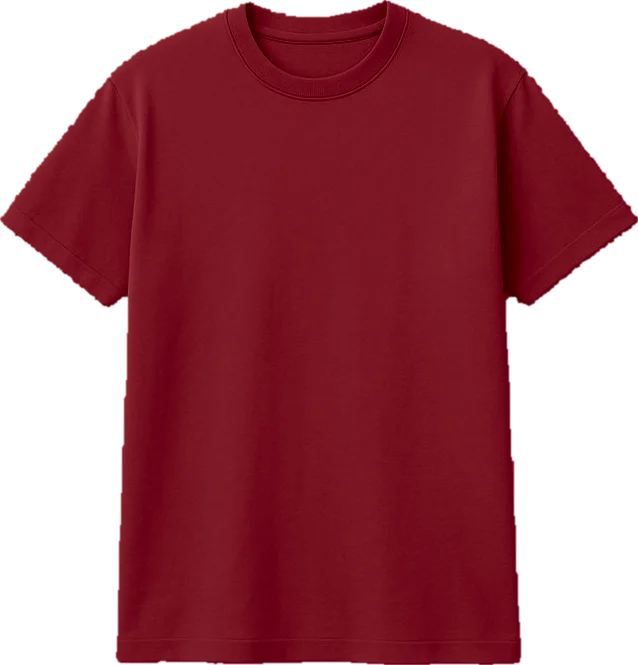
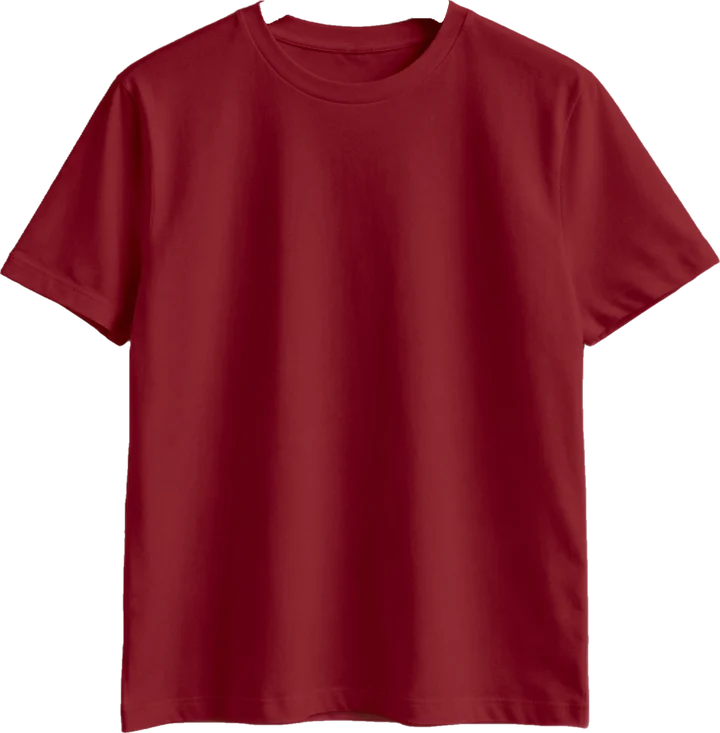
Percha de madera, remeras de costado que giran al frente, nueva foto de básica y WhatsApp
Claude-Session: https://claude.ai/code/session_01TQcB1Do2ys7hxToweFXVKh

diff --git a/app.js b/app.js
@@ -4,9 +4,9 @@
 (() => {
   const $ = (s) => document.querySelector(s);
   const reduce = matchMedia('(prefers-reduced-motion: reduce)').matches;
-  const ASPECTO = { oversize: 1050 / 1064, basica: 665 / 638 };
+  const ASPECTO = { oversize: 1050 / 1064, basica: 733 / 720 };
   const ESCALA_CORTE = { oversize: 1, basica: 0.84 }; // la básica se ve más angosta, como en la realidad
-  const SOMBRA_PAD = { oversize: 60 / 720, basica: 60 / 638 };
+  const SOMBRA_PAD = { oversize: 60 / 720, basica: 60 / 720 };
 
   let CFG, DIS = [], lista = [], filtro = 'todo';
 
@@ -46,38 +46,48 @@
     if (est) { c.globalAlpha = 0.97; c.drawImage(est, 0, 0); c.globalAlpha = 1; }
   }
 
-  /* ---------- percha (gancho) ---------- */
+  /* ---------- percha de madera + gancho ---------- */
+  // Medidas de la percha tomadas de la foto de la remera básica (relativas al ancho de la básica).
+  const PERCHA = { ancho: 0.2598, izq: -0.1371, arriba: -0.096, prop: 186 / 379 };
   function gancho(h) {
     const ns = 'http://www.w3.org/2000/svg';
     const s = document.createElementNS(ns, 'svg');
     s.setAttribute('viewBox', '0 0 40 60'); s.setAttribute('class', 'hook');
     s.style.height = h + 'px'; s.style.width = (h * 40 / 60) + 'px';
-    s.innerHTML = `<defs><linearGradient id="gm" x1="0" x2="1"><stop offset="0" stop-color="#5E5C59"/><stop offset=".45" stop-color="#E9E8E5"/><stop offset="1" stop-color="#8F8D89"/></linearGradient></defs>
-      <path d="M20 60 V40 C20 33 27.5 31 27.5 20 C27.5 10 20.5 4.6 15.5 6.6 C12 8 11.6 12.6 13.8 14.6" fill="none" stroke="url(#gm)" stroke-width="3.2" stroke-linecap="round"/>
-      <rect x="13" y="52" width="14" height="8" rx="2" fill="#2A2724"/>`;
+    s.innerHTML = `<defs><linearGradient id="gm" x1="0" x2="1"><stop offset="0" stop-color="#4E4C49"/><stop offset=".45" stop-color="#D9D8D4"/><stop offset="1" stop-color="#7C7A76"/></linearGradient></defs>
+      <path d="M20 61 V42 C20 35 27.5 32 27.5 20 C27.5 10 20.5 4.6 15.5 6.6 C12 8 11.6 12.6 13.8 14.6" fill="none" stroke="url(#gm)" stroke-width="2.6" stroke-linecap="round"/>`;
     return s;
+  }
+  function geometria(w, corte) {
+    const swB = w * ESCALA_CORTE.basica;
+    const hookH = w * 0.17;
+    const sw = w * ESCALA_CORTE[corte];
+    const sh = sw * ASPECTO[corte];
+    const shirtTop = hookH - PERCHA.arriba * swB;
+    return { swB, hookH, sw, sh, shirtTop, alto: shirtTop + sh };
   }
   // Arma la percha + remera. Devuelve el nodo .swing y el canvas.
   function prenda(w, corte) {
-    const hookH = w * 0.2;
-    const sw = w * ESCALA_CORTE[corte];
-    const sh = sw * ASPECTO[corte];
+    const g = geometria(w, corte);
     const swing = document.createElement('div'); swing.className = 'swing';
-    swing.style.width = w + 'px'; swing.style.height = (hookH + sh) + 'px';
-    swing.style.setProperty('--pivot', (hookH * 0.12) + 'px');
-    swing.appendChild(gancho(hookH));
+    swing.style.width = w + 'px'; swing.style.height = g.alto + 'px';
+    swing.style.setProperty('--pivot', (g.hookH * 0.12) + 'px');
+    swing.appendChild(gancho(g.hookH + 2));
+    const madera = new Image(); madera.className = 'madera'; madera.alt = ''; madera.src = 'img/percha.webp';
+    const mw = PERCHA.ancho * g.swB;
+    madera.style.width = mw + 'px'; madera.style.left = (w / 2 + PERCHA.izq * g.swB) + 'px'; madera.style.top = g.hookH + 'px';
+    swing.appendChild(madera);
     const shirt = document.createElement('div'); shirt.className = 'shirt';
-    shirt.style.width = sw + 'px'; shirt.style.top = (hookH * 0.9) + 'px';
+    shirt.style.width = g.sw + 'px'; shirt.style.top = g.shirtTop + 'px';
     const pad = SOMBRA_PAD[corte];
     const sombra = new Image(); sombra.className = 'sombra'; sombra.alt = ''; sombra.src = `img/${corte}/sombra.webp`;
-    sombra.style.width = sw * (1 + 2 * pad) + 'px';
-    sombra.style.left = (-pad * sw + sw * 0.06) + 'px'; sombra.style.top = (-pad * sw + sw * 0.07) + 'px';
+    sombra.style.width = g.sw * (1 + 2 * pad) + 'px';
+    sombra.style.left = (-pad * g.sw + g.sw * 0.06) + 'px'; sombra.style.top = (-pad * g.sw + g.sw * 0.07) + 'px';
     const canvas = document.createElement('canvas');
-    canvas.width = Math.round(sw); canvas.height = Math.round(sh);
+    canvas.width = Math.round(g.sw); canvas.height = Math.round(g.sh);
     shirt.append(sombra, canvas); swing.appendChild(shirt);
-    return { swing, canvas, hookH, sw };
+    return { swing, canvas, hookH: g.hookH, sw: g.sw, shirt };
   }
-
   /* ---------- péndulo ---------- */
   const pend = () => ({ a: 0, w: 0 });
   function pasoPendulo(p, dt, empuje) {
@@ -88,9 +98,12 @@
   }
 
   /* ---------- perchero ---------- */
+  // Como en una tienda: las remeras cuelgan de costado y la que señalás (o la del centro, en el celu)
+  // gira y se pone de frente, abriéndose lugar entre las demás.
   const rack = $('#rack'), track = $('#track');
-  let topOff = 0, items = [], W = 0, paso = 0, x = 0, v = 0, vPrev = 0, minX = 0, maxX = 0, viewW = 0;
-  let drag = null, movido = false, rafOn = false, last = 0, hoverIdx = -1;
+  let topOff = 0, items = [], W = 0, S = 0, E = 0, x = 0, v = 0, vPrev = 0, minX = 0, maxX = 0, viewW = 0;
+  let drag = null, movido = false, rafOn = false, last = 0, hoverIdx = -1, activo = 0;
+  const GIRO = 66; // grados de las remeras que están de costado
 
   function corteDe(d) { return filtro === 'todo' ? d.cortes[0] : filtro; }
   function colorDe(d, corte) {
@@ -103,76 +116,92 @@
   function armarPerchero() {
     lista = DIS.filter(d => filtro === 'todo' || d.cortes.includes(filtro));
     const h = rack.clientHeight; viewW = rack.clientWidth;
-    W = Math.max(110, Math.min(330, h * 0.66, viewW * (viewW < 600 ? 0.5 : 0.22)));
-    paso = W * 0.8;
+    const g1 = geometria(1, 'oversize');
+    W = Math.max(130, Math.min(360, (h - 16) / g1.alto, viewW * (viewW < 600 ? 0.62 : 0.26)));
+    S = W * 0.3; E = W * 0.86;
+    const g = geometria(W, 'oversize');
+    topOff = Math.max(6, (h - g.alto) * 0.4);
+    rack.style.setProperty('--rod-y', (topOff + g.hookH * 0.1 - 3) + 'px');
     track.innerHTML = ''; items = [];
     lista.forEach((d, i) => {
       const corte = corteDe(d), color = colorDe(d, corte);
       const b = document.createElement('button'); b.type = 'button'; b.className = 'item';
       b.setAttribute('aria-label', `${d.nombre}, corte ${CFG.cortes[corte].nombre}. Ver detalle`);
-      const { swing, canvas, hookH } = prenda(W, corte);
+      const { swing, canvas, shirt } = prenda(W, corte);
       b.style.width = W + 'px'; b.appendChild(swing); track.appendChild(b);
-      const alto = hookH + W * ASPECTO.oversize;
-      topOff = Math.max(8, (h - alto) * 0.38);
-      rack.style.setProperty('--rod-y', (topOff + hookH * 0.12 - 3) + 'px');
-      componer(canvas, d, corte, color, 'frente', Math.min(560, W * 2)).catch(console.warn);
-      const it = { el: b, swing, d, corte, color, i, p: pend() };
+      if (d.etiqueta) { const t = document.createElement('span'); t.className = 'etiqueta'; t.textContent = d.etiqueta; shirt.appendChild(t); }
+      componer(canvas, d, corte, color, 'frente', Math.min(620, W * 1.8)).catch(console.warn);
+      const it = { el: b, swing, d, corte, color, i, p: pend(), o: 0, cx: 0 };
       b.addEventListener('click', (e) => { if (movido) { e.preventDefault(); return; } abrir(i); });
-      b.addEventListener('pointerenter', (e) => { if (e.pointerType === 'mouse' && !drag) { it.p.w += (e.movementX || 1) > 0 ? 40 : -40; hoverIdx = i; kick(); } });
-      b.addEventListener('pointerleave', () => { if (hoverIdx === i) hoverIdx = -1; });
+      canvas.addEventListener('pointerenter', (e) => { if (e.pointerType === 'mouse' && !drag && hoverIdx !== i) { hoverIdx = i; it.p.w += 30; kick(); } });
       b.addEventListener('focus', () => { centrar(i); });
       items.push(it);
     });
-    const total = (lista.length - 1) * paso + W;
-    const margen = Math.max(16, viewW * 0.06);
-    if (total + 2 * margen <= viewW) { minX = maxX = (viewW - total) / 2; }
-    else { maxX = margen; minX = viewW - total - margen; }
-    x = minX === maxX ? minX : Math.min(maxX, Math.max(minX, x));
-    if (minX !== maxX && !armado) { x = maxX; v = -500; } // pequeña entrada animada
+    const n = lista.length;
+    maxX = viewW / 2 - (S + E) / 2;
+    minX = viewW / 2 - ((n - 1) * S + (S + E) / 2);
+    if (!armado) { activo = Math.min(n - 1, viewW < 600 ? 1 : Math.floor(n / 2) > 3 ? 3 : 0); x = viewW / 2 - (activo * S + (S + E) / 2) + 260; v = 0; }
+    x = Math.min(maxX + 300, Math.max(minX - 300, x));
+    items.forEach((it, k) => { it.o = k === activo ? 1 : 0; it.p.a = reduce ? 0 : (k % 2 ? 5 : -5); });
     armado = true;
-    // las remeras entran balanceándose
-    items.forEach((it, k) => { it.p.a = reduce ? 0 : (k % 2 ? 6 : -6); });
     kick();
   }
   let armado = false;
+  rack.addEventListener('pointerleave', () => { hoverIdx = -1; kick(); });
 
+  // posición del centro de cada remera según cuánto está abierta cada una
+  function layout() {
+    let acc = x;
+    for (const it of items) { const ancho = S + E * it.o; it.cx = acc + ancho / 2; acc += ancho; }
+  }
   function centrar(i) {
-    if (minX === maxX) return;
-    const objetivo = viewW / 2 - (i * paso + W / 2);
-    v = (objetivo - x) * 6; kick();
+    hoverIdx = -1; activo = i;
+    const objetivo = viewW / 2 - (i * S + (S + E) / 2);
+    v = (objetivo - x) * 5; kick();
   }
 
   function kick() { if (!rafOn) { rafOn = true; last = performance.now(); requestAnimationFrame(loop); } }
   function loop(t) {
     const dt = Math.min(0.033, (t - last) / 1000); last = t;
     let vivo = false;
+    layout();
+    // cuál remera está de frente: la señalada con el mouse o la más cercana al centro
+    if (hoverIdx >= 0) activo = hoverIdx;
+    else if (!drag || drag.h) {
+      let mejor = 1e9;
+      for (const it of items) { const dd = Math.abs(it.cx - viewW / 2); if (dd < mejor) { mejor = dd; activo = it.i; } }
+    }
     if (!drag) {
       x += v * dt;
-      const fr = Math.pow(0.04, dt); v *= fr;                 // inercia
-      if (x > maxX) { v += (maxX - x) * 120 * dt; v *= 0.85; }  // rebote suave en los bordes
-      if (x < minX) { v += (minX - x) * 120 * dt; v *= 0.85; }
-      if (Math.abs(v) > 2 || x > maxX + 0.5 || x < minX - 0.5) vivo = true;
-      else { v = 0; x = Math.min(maxX, Math.max(minX, x)); }
+      v *= Math.pow(0.05, dt);                                 // inercia
+      if (x > maxX) { v += (maxX - x) * 110 * dt; v *= 0.86; } // rebote suave en los bordes
+      if (x < minX) { v += (minX - x) * 110 * dt; v *= 0.86; }
+      // al soltar, la remera del centro se acomoda (no cuando el mouse está señalando una)
+      if (hoverIdx < 0 && Math.abs(v) < 220 && items[activo]) {
+        const diff = viewW / 2 - items[activo].cx;
+        x += diff * Math.min(1, dt * 7);
+        if (Math.abs(diff) > 0.6) vivo = true;
+      }
+      if (Math.abs(v) > 3) vivo = true; else v = 0;
     } else vivo = true;
     const acc = (v - vPrev) / Math.max(dt, 0.001); vPrev = v;
-    let centro = -1, mejor = 1e9;
+    layout();
     for (const it of items) {
-      const px = x + it.i * paso;
-      const cx = px + W / 2 - viewW / 2;
-      if (Math.abs(cx) < mejor) { mejor = Math.abs(cx); centro = it.i; }
-      const ry = reduce ? 0 : Math.max(-28, Math.min(28, -cx / viewW * 34));   // curvatura 3D del perchero
-      const empuje = reduce ? 0 : Math.max(-900, Math.min(900, -acc * 0.05 - v * 0.02));
+      const meta = it.i === activo ? 1 : 0;
+      it.o += (meta - it.o) * Math.min(1, dt * (reduce ? 30 : 8));
+      if (Math.abs(meta - it.o) > 0.002) vivo = true; else it.o = meta;
+      const lado = it.i < activo ? 1 : -1;
+      const ry = (1 - it.o) * GIRO * lado;
+      const empuje = reduce ? 0 : Math.max(-700, Math.min(700, -acc * 0.04 - v * 0.015));
       if (pasoPendulo(it.p, dt, empuje)) vivo = true;
-      it.el.style.transform = `translate3d(${px}px,${topOff}px,0) perspective(900px) rotateY(${ry}deg)`;
-      it.el.style.zIndex = 1000 - Math.round(Math.abs(cx));
+      it.el.style.transform = `translate3d(${it.cx - W / 2}px,${topOff}px,0) perspective(1100px) rotateY(${ry}deg)`;
+      it.el.style.zIndex = 500 - Math.abs(it.i - activo) * 2 + Math.round(it.o);
       it.swing.style.transform = `rotate(${it.p.a}deg)`;
+      it.el.classList.toggle('frente', it.o > 0.5);
     }
-    const idx = hoverIdx >= 0 ? hoverIdx : centro;
-    if (items[idx]) $('#capName').textContent = items[idx].d.nombre;
+    if (items[activo]) $('#capName').textContent = items[activo].d.nombre;
     if (vivo) requestAnimationFrame(loop); else rafOn = false;
   }
-
-  // arrastre con mouse o dedo
   rack.addEventListener('pointerdown', (e) => {
     if (e.button !== 0) return;
     drag = { x0: e.clientX, y0: e.clientY, xs: x, t: performance.now(), lx: e.clientX, lt: performance.now(), id: e.pointerId, h: null };
@@ -236,7 +265,7 @@
   function medidasFig(corte) {
     const vh = detView.clientHeight, vw = detView.clientWidth;
     const flechas = vw < 600 ? 84 : 140;
-    let w = Math.min(520, (vh * 0.98) / (0.2 + ESCALA_CORTE[corte] * ASPECTO[corte]), vw - flechas);
+    let w = Math.min(520, (vh * 0.98) / geometria(1, corte).alto, vw - flechas);
     return Math.max(120, w);
   }
   async function pintarFig(dir = 0) {

diff --git a/styles.css b/styles.css
@@ -79,10 +79,20 @@ h1 em {
   position: absolute; top: 0; left: 0; padding: 0; border: 0; background: none; cursor: pointer;
   will-change: transform; transform-style: preserve-3d;
 }
+.item { pointer-events: none; }
+.item canvas { pointer-events: auto; }
+.item:not(.frente) .shirt canvas { filter: brightness(.92); }
+.madera { position: absolute; max-width: none; pointer-events: none; }
+.etiqueta {
+  position: absolute; top: 4%; right: 8%; z-index: 2; background: var(--blanco); color: var(--tinta);
+  font-size: 10px; font-weight: 800; letter-spacing: -.01em; text-transform: uppercase; padding: 3px 6px; border-radius: 2px;
+  box-shadow: 0 1px 3px rgba(20, 20, 20, .2); pointer-events: none;
+}
 .item:focus-visible { outline: none; }
 .item:focus-visible .shirt canvas { outline: 2px solid var(--naranja); outline-offset: 6px; border-radius: 8px; }
 .swing { position: relative; transform-origin: 50% var(--pivot, 6px); will-change: transform; }
-.hook { position: absolute; left: 50%; top: 0; transform: translateX(-50%); overflow: visible; }
+.hook { position: absolute; left: 50%; top: 0; transform: translateX(-50%); overflow: visible; z-index: 0; }
+.shirt { z-index: 1; }
 .shirt { position: absolute; left: 50%; transform: translateX(-50%); }
 .shirt canvas { display: block; width: 100%; height: auto; position: relative; }
 .shirt .sombra { position: absolute; max-width: none; pointer-events: none; }

diff --git a/README.md b/README.md
@@ -27,6 +27,7 @@ Se ve en: **https://agustin23-gif.github.io/perchero-agustin/**
 - `frente` / `espalda`: el archivo que va en cada lado (`null` si ese lado va liso).
 - `color`: el color con el que aparece colgado en el perchero.
   Oversize: `negro`, `blanco`, `beige`, `marfil`, `verde_musgo`. Básica: ver la lista en `catalogo.json`.
+- `etiqueta` (opcional): un cartelito en la remera del perchero, ej. `"etiqueta": "Nuevo"`.
 - El orden de la lista es el orden del perchero.
 
 La página estampa el diseño sobre la foto real de la remera, con los pliegues de la tela.
